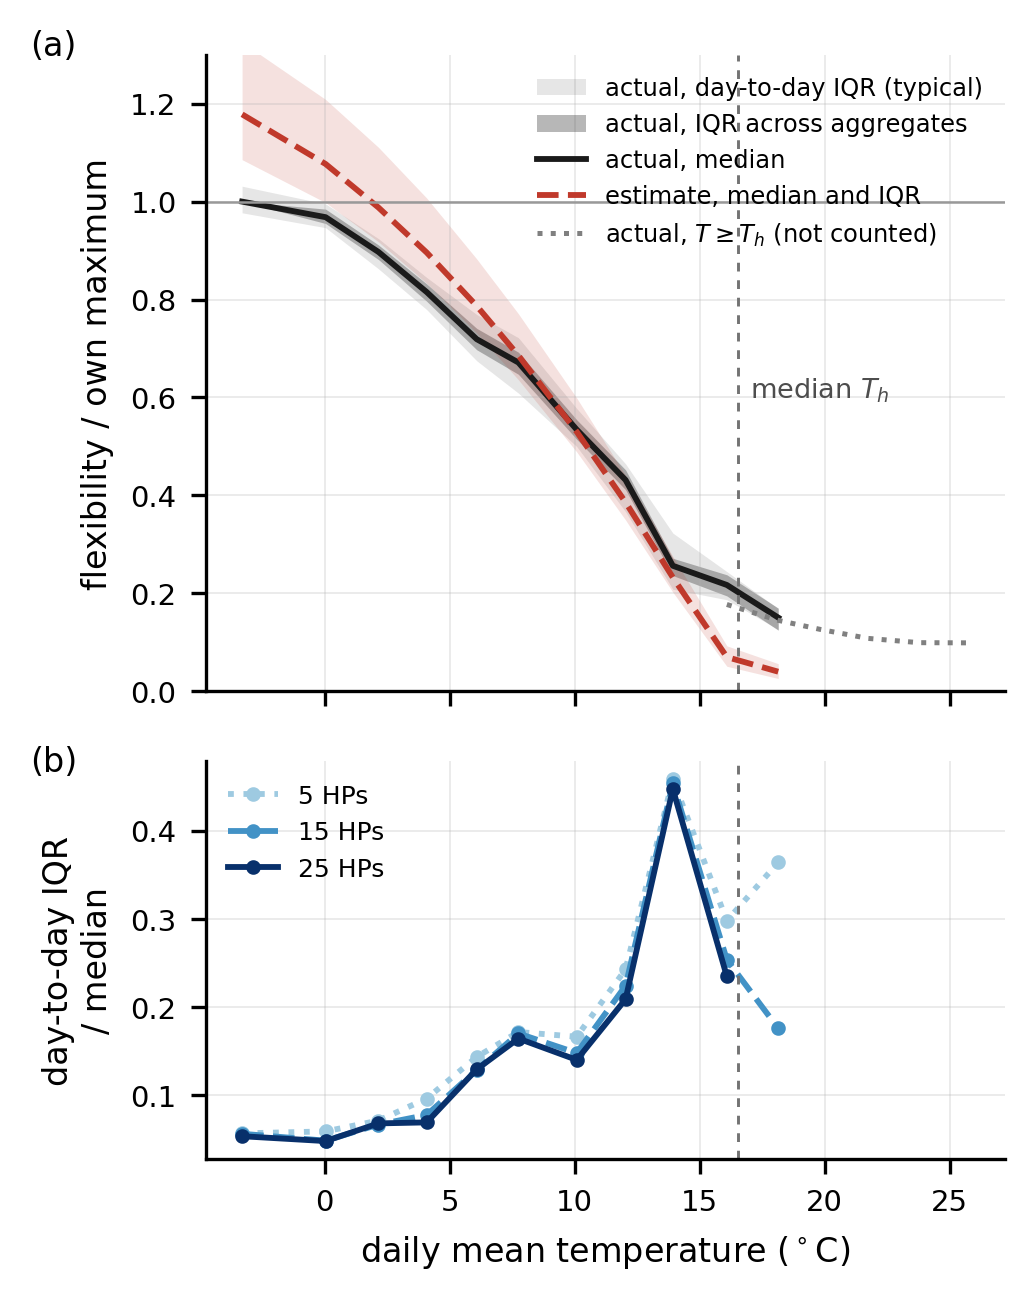
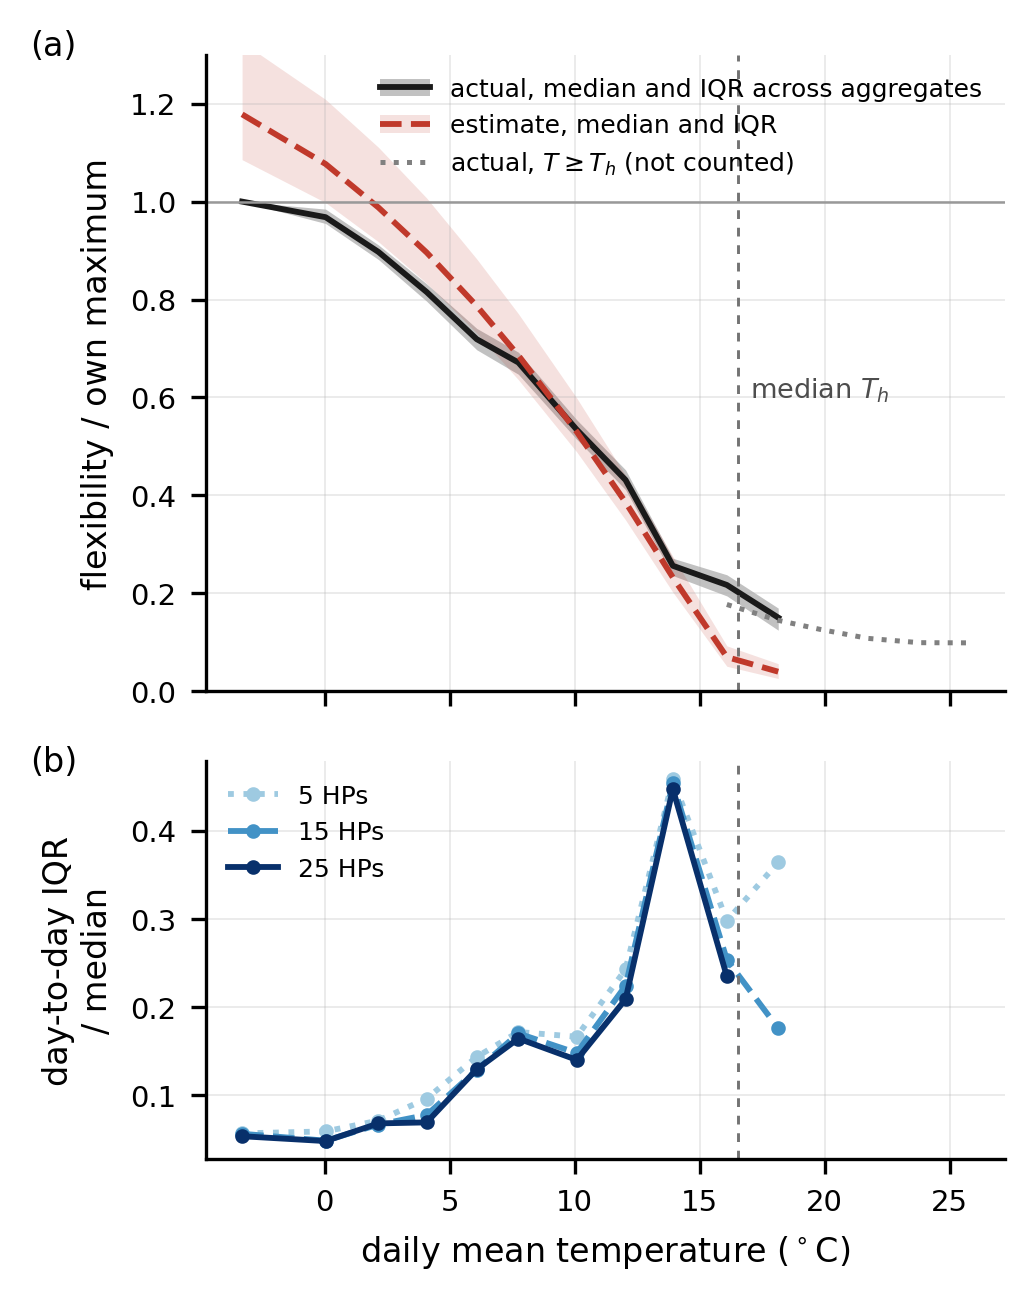
flex-T: simplify the normalised plot; diagnostics for the IQR peak, cold overshoot and mild undershoot

diff --git a/scripts/flex_temperature.py b/scripts/flex_temperature.py
@@ -954,20 +954,25 @@ def fig_flex_all(L=None, name='fig_flex_all_normalised'):
     L = L[cover >= 0.1 * L.row.nunique()]
     hf.use_style()
     fig, axs = plt.subplots(2, 1, figsize=(hf.COL1, 4.4), sharex=True, gridspec_kw=dict(height_ratios=[1.6, 1]))
+    from matplotlib.lines import Line2D
+    from matplotlib.patches import Patch
     ax = axs[0]
     h = L[L.regime == 'heating'].groupby('bin')
     x = h.x.first()
-    ax.fill_between(x, h.q25.median(), h.q75.median(), color='0.2', alpha=.12, lw=0, label='actual, day-to-day IQR (typical)')
-    ax.fill_between(x, h.med.quantile(.25), h.med.quantile(.75), color='0.2', alpha=.35, lw=0, label='actual, IQR across aggregates')
-    ax.plot(x, h.med.median(), color='0.1', lw=1.4, label='actual, median')
+    ax.fill_between(x, h.med.quantile(.25), h.med.quantile(.75), color='0.2', alpha=.3, lw=0)
+    ax.plot(x, h.med.median(), color='0.1', lw=1.4)
     ax.fill_between(x, h.est.quantile(.25), h.est.quantile(.75), color=hf.C_HP, alpha=.15, lw=0)
-    ax.plot(x, h.est.median(), color=hf.C_HP, ls='--', lw=1.4, label='estimate, median and IQR')
+    ax.plot(x, h.est.median(), color=hf.C_HP, ls='--', lw=1.4)
     d = L[L.regime == 'dead band'].groupby('bin')
-    ax.plot(d.x.first(), d.med.median(), color='0.5', ls=':', lw=1.2, label='actual, $T \\geq T_h$ (not counted)')
+    ax.plot(d.x.first(), d.med.median(), color='0.5', ls=':', lw=1.2)
     ax.axhline(1, color='0.6', lw=.6)
     ax.set_ylabel('flexibility / own maximum')
     ax.set_ylim(0, 1.3)
-    ax.legend(fontsize=5.8, loc='upper right')
+    handles = [(Patch(color='0.2', alpha=.3, lw=0), Line2D([], [], color='0.1', lw=1.4)),
+               (Patch(color=hf.C_HP, alpha=.15, lw=0), Line2D([], [], color=hf.C_HP, ls='--', lw=1.4)),
+               Line2D([], [], color='0.5', ls=':', lw=1.2)]
+    ax.legend(handles, ['actual, median and IQR across aggregates', 'estimate, median and IQR',
+                        'actual, $T \\geq T_h$ (not counted)'], fontsize=6, loc='upper right')
     ax = axs[1]
     for nh, c, ls in zip((5, 15, 25), ('#9ecae1', '#4292c6', '#08306b'), (':', '--', '-')):
         g = L[(L.regime == 'heating') & (L.N_hp == nh)].assign(w=lambda v: (v.q75 - v.q25) / v.med).groupby('bin')
@@ -985,6 +990,48 @@ def fig_flex_all(L=None, name='fig_flex_all_normalised'):
     path = save_fig(fig, name)
     plt.close(fig)
     return path
+
+
+def flex_all_diagnostics(N=50, N_hp=25):
+    """Two diagnostics for the normalised plot (Alex's questions), on the (N, N_hp) aggregates.
+
+    iqr: per 2 degC bin of heating days, the day-to-day IQR / median of the actual
+    F, raw and net of a linear temperature trend within the bin, with the bin's
+    temperature span and spring share (Jan-Jun), median over aggregates.
+    floor: per bin, the actual and estimated downward headroom per kW of true
+    capacity, the aggregate's summer floor (median daily SF on days >= T_h + 2),
+    and the estimated / actual ratio with and without the floor, median over
+    aggregates.
+    """
+    Dz, _ = rebuild_design(); D = daily_frames(); G = Dz['rows']; T = D['T']
+    days = pd.date_range('2023-01-01', periods=len(T), freq='D')
+    edges, _ = temperature_bins(T, MIN_DAYS, FIRM_WIDTH)
+    idx = np.clip(np.digitize(T, edges) - 1, 0, len(edges) - 2)
+    sel = np.flatnonzero(((G.N == N) & (G.N_hp == N_hp)).to_numpy())
+    r1, r2 = [], []
+    for i in sel:
+        r = G.iloc[i]
+        fa = D['fa_h'][i].astype(float); sf_a = D['sf_a'][i].astype(float)
+        pd_e = O.sf_target(T, r.T_h, r.m_pilot) * r.cap_est / r.cap
+        floor = float(np.median(sf_a[T >= r.T_h + 2]))
+        for b in range(len(edges) - 1):
+            m = (idx == b) & (T < r.T_h)
+            if m.sum() < MIN_DAYS:
+                continue
+            y, t = fa[m], T[m]
+            res = y - np.polyval(np.polyfit(t, y, 1), t) + np.median(y)
+
+            def rel_iqr(v):
+                return (np.quantile(v, .75) - np.quantile(v, .25)) / np.median(y)
+            r1.append(dict(bin=b, lo=edges[b], hi=edges[b + 1], days=int(m.sum()), T_span=float(t.max() - t.min()),
+                           raw=rel_iqr(y), detrended=rel_iqr(res), spring=float((days[m].month <= 6).mean())))
+            r2.append(dict(bin=b, x=float(t.mean()), act=float(sf_a[m].mean()), floor=floor,
+                           est=float(pd_e[m].mean())))
+    iqr = pd.DataFrame(r1).groupby(['bin', 'lo', 'hi']).median()
+    fl = pd.DataFrame(r2).groupby('bin').median()
+    fl['est/act'] = fl.est / fl.act
+    fl['est/(act-floor)'] = fl.est / (fl.act - fl.floor)
+    return dict(iqr=iqr, floor=fl)
 
 
 def step2(rebuild=False):

diff --git a/FLEX_LOG.md b/FLEX_LOG.md
@@ -527,3 +527,42 @@ Marks (Alex, 2026-10-26): F1 accept, F2 accept, F3 accept (minimal), F4 modify (
   - The estimate's spread across aggregates is much wider than the actual's, since it carries each aggregate's capacity and fit error. It overshoots on the cold side (1.18 at −3.3 °C) and matches at 8–12 °C.
   - The day-to-day spread barely depends on the number of HPs, and peaks at 13–15 °C (0.45), as in Step 2.
 - Trade-off against the paper's per-kW normalisation (Fig. 7): dividing by the own maximum shows shape and spread, but hides the absolute level and the 0.25 ceiling. Per kW of true installed capacity keeps both.
+
+### Follow-up (Alex): figure simplified; three questions answered
+- Figure: panel (a) no longer shows the day-to-day IQR. The legend gives one entry per curve ("actual, median and IQR across aggregates"; "estimate, median and IQR"; dead band).
+- Diagnostics: `flex_temperature.flex_all_diagnostics()`, N = 50, N_hp = 25, medians over the 60 aggregates.
+
+Day-to-day IQR / median of the actual F per bin, raw and net of a linear T trend inside the bin:
+
+| Bin (°C) | Days | T span (°C) | Raw | Net of T trend | Spring share (Jan–Jun) |
+|---|---|---|---|---|---|
+| [−9, −1) | 9 | 6.9 | 0.054 | 0.030 | 0.78 |
+| [5, 7) | 29 | 1.9 | 0.130 | 0.119 | 0.55 |
+| [11, 13) | 34 | 1.9 | 0.209 | 0.179 | 0.65 |
+| [13, 15) | 20 | 1.8 | 0.447 | 0.487 | 0.35 |
+| [15, T_h) | 13 | 1.2 | 0.241 | 0.203 | 0.23 |
+
+Downward headroom per kW of true capacity (actual = daily-mean SF; estimate = m_h(T_h − T)·P̂^max/P^max). The floor is each aggregate's median daily SF on days ≥ T_h + 2 °C (median 0.027).
+
+| Bin centre (°C) | −3.3 | 0.0 | 4.1 | 7.7 | 10.1 | 12.0 | 13.9 | 15.8 |
+|---|---|---|---|---|---|---|---|---|
+| Actual | 0.370 | 0.336 | 0.250 | 0.190 | 0.146 | 0.107 | 0.066 | 0.053 |
+| Estimate | 0.404 | 0.336 | 0.254 | 0.178 | 0.130 | 0.090 | 0.052 | 0.015 |
+| Est. / act. | 1.09 | 1.00 | 1.02 | 0.94 | 0.90 | 0.84 | 0.79 | 0.28 |
+| Est. / (act. − floor) | 1.18 | 1.09 | 1.14 | 1.10 | 1.10 | 1.12 | 1.34 | 0.57 |
+
+- **Why the day-to-day IQR falls just below T_h.**
+  - The peak at 13–15 °C is not the temperature trend inside the bin: removing it leaves 0.49.
+  - That bin mixes spring days (35%) with late-summer and autumn days. Its lowest days (Step 2, D2-ii) look like heating switched off for the season, so heating-on and heating-off days sit side by side.
+  - In the last bin, [15, T_h), most days are already near the weather-independent floor (77% from August to October), which varies less from day to day, so the relative IQR falls to 0.24.
+  - That bin is also narrower (1.2 °C span, 13 days).
+  - The on/off reading rests on dates, not on a metered heating-mode signal.
+- **Cold-side overestimate and P̂^max.** P̂^max cancels out of the estimate: E_flex = SF(1 − SF)·P̂^max·Δt = s_h(T_h − T)(1 − m_h(T_h − T))·Δt.
+  - The +17% in the coldest bin is the product of three factors (Step 1): the net-load arm above the measured HP load (energy factor 1.09), the daily resolution (1.04) and the pilot's slightly low SF (unused-capacity factor 1.02).
+  - The measured downward headroom rises about 0.02 per °C down to 0 °C but only 0.010 per °C below it, whereas the fitted arm stays linear. The cause of this flattening is not identified here.
+  - P̂^max (1.14 × true at N = 50) enters directly only the upward headroom.
+- **Mild-side underestimate and hot water.** Mostly yes. The estimate excludes weather-independent HP use by construction.
+  - With each aggregate's summer floor subtracted from the actual, the estimate is 9–18% high from −3 to 12 °C, instead of 0–16% low from 7 to 14 °C.
+  - So in the middle of the range the fitted arm runs about 10–15% steeper than the floor-free HP load, which happens to make up for the missing floor. The steeper arm possibly reflects the non-TCL temperature response, the paper's first error source.
+  - Near T_h (last bin) the estimate is still low with the floor removed (0.57), so the gradual switch-off of heating across buildings adds to the gap there.
+  - The summer floor may understate the winter hot-water load (colder mains water), so this attribution is approximate.
